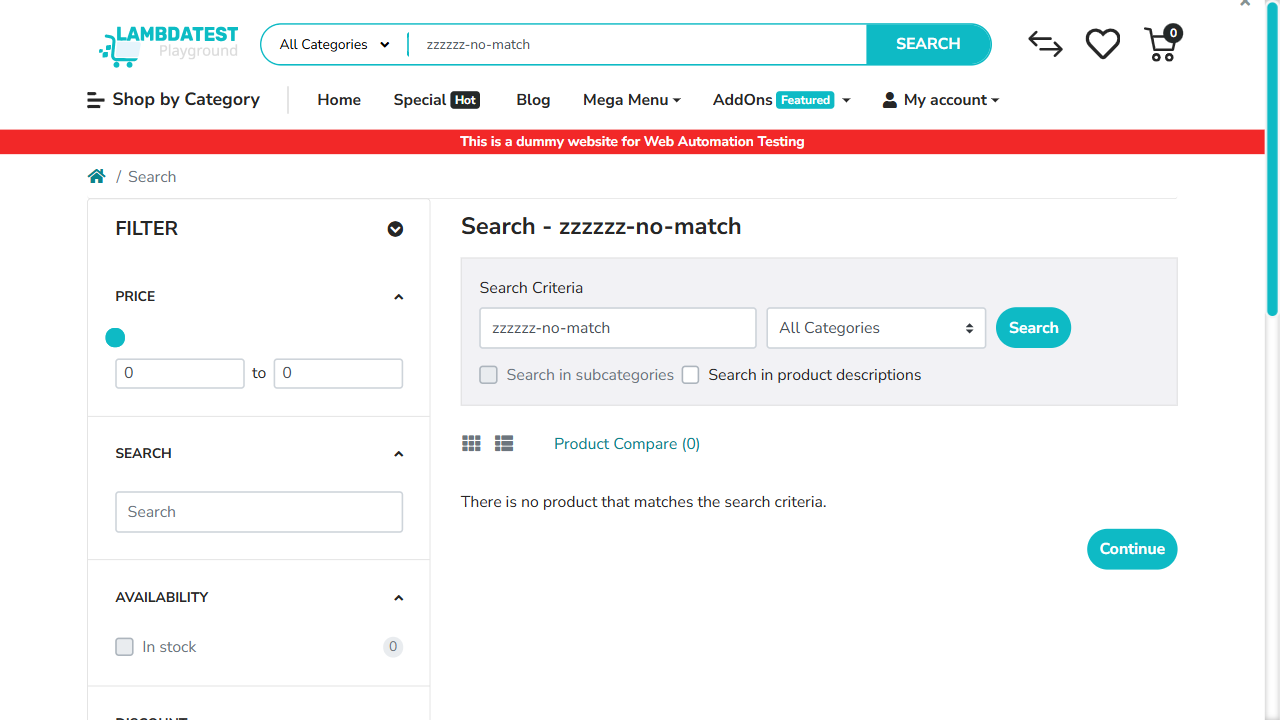
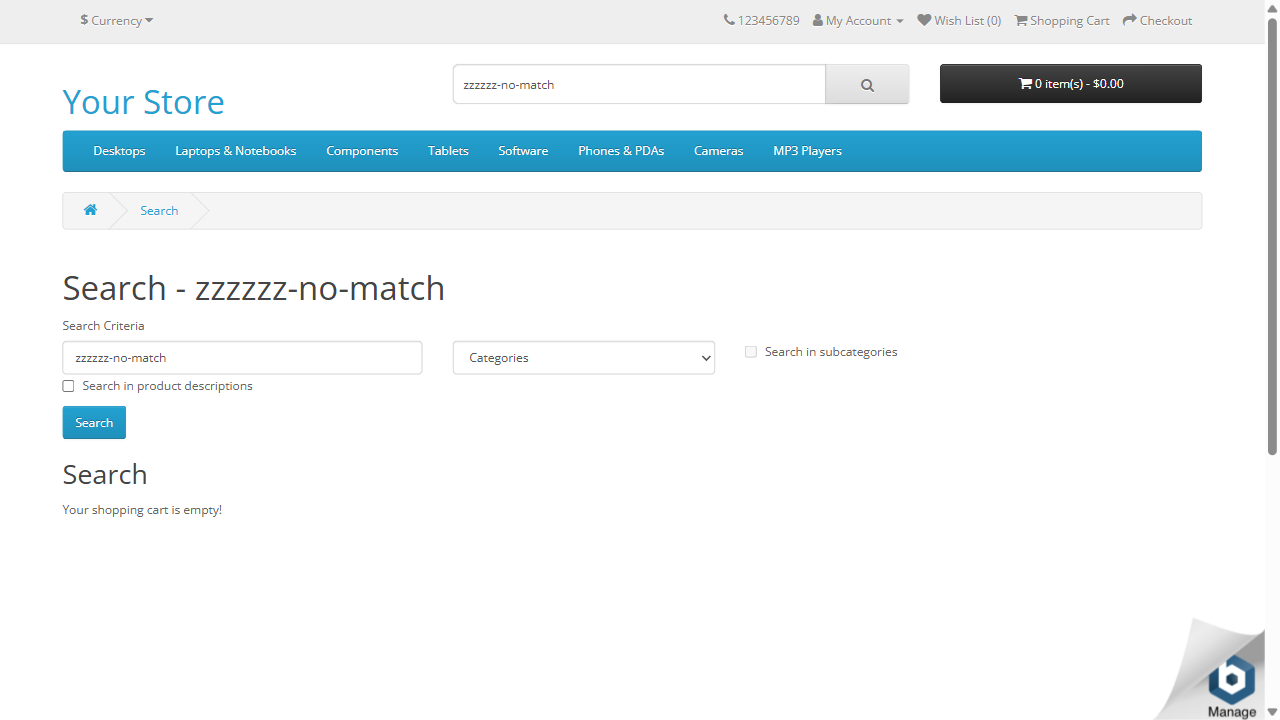
Change BASE_URL because some dumbass broke it

diff --git a/features/environment.py b/features/environment.py
@@ -1,6 +1,7 @@
 from playwright.sync_api import sync_playwright
 
-BASE_URL = "https://ecommerce-playground.lambdatest.io/"
+BASE_URL = "https://opencart.abstracta.us/"
+BASE_URL_OLD = "https://ecommerce-playground.lambdatest.io/"
 
 def before_all(context):
     context.base_url = BASE_URL
